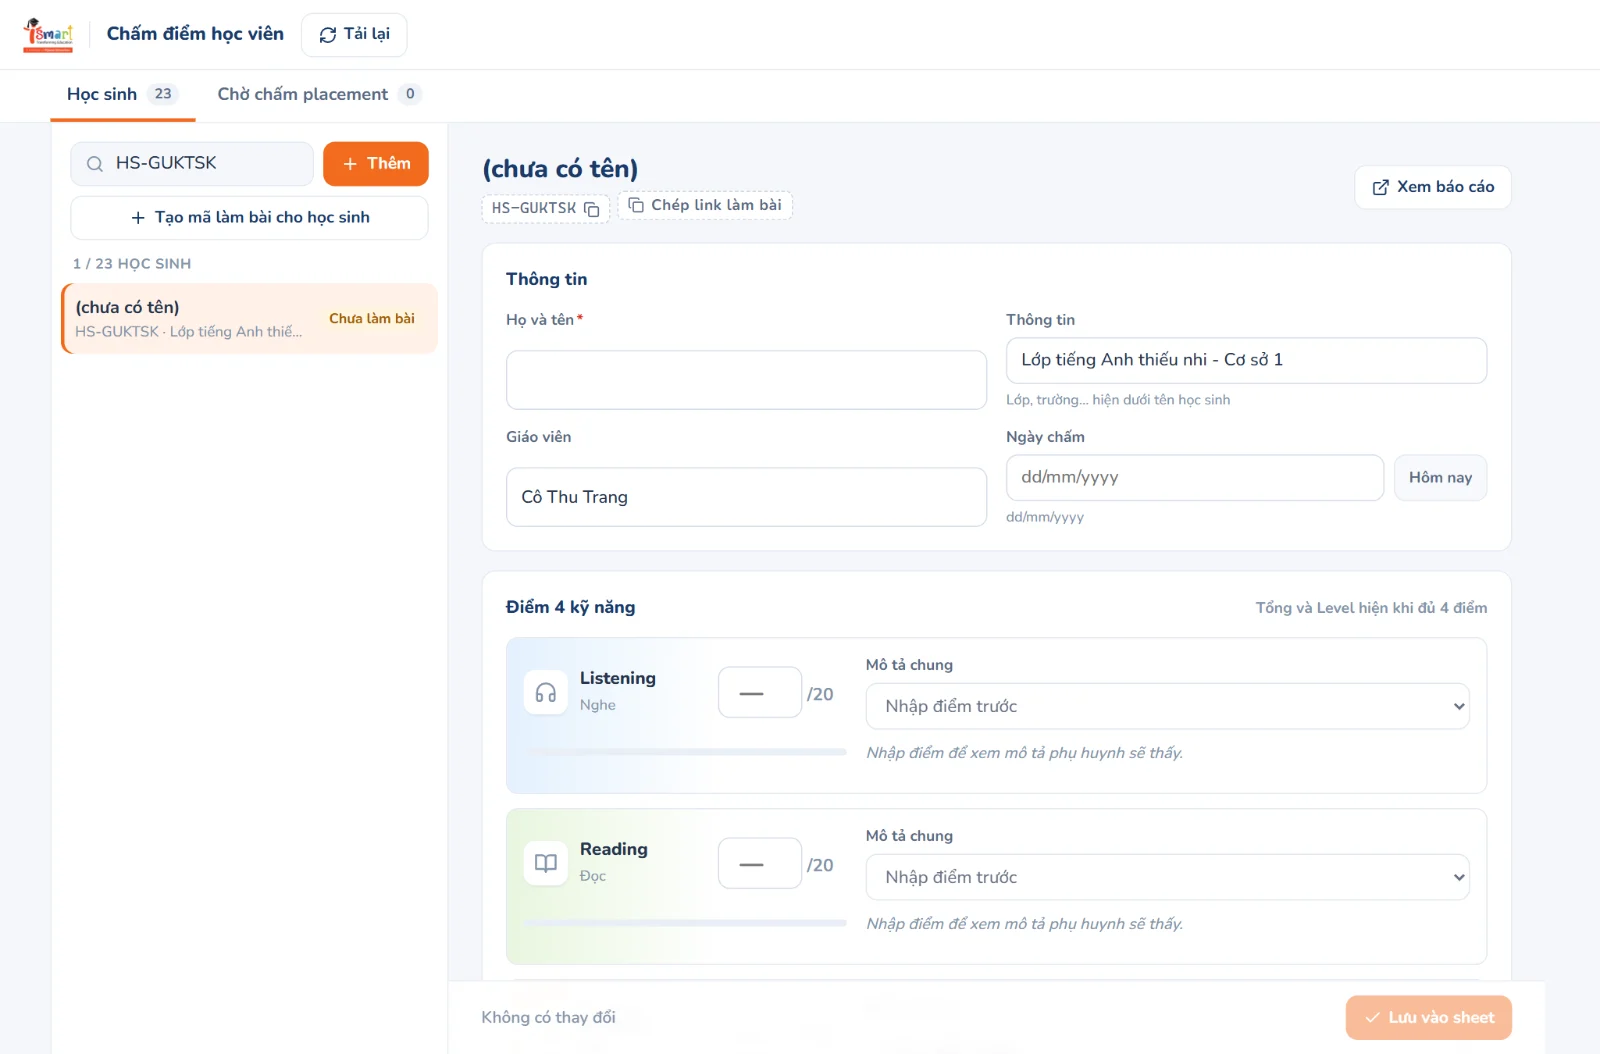
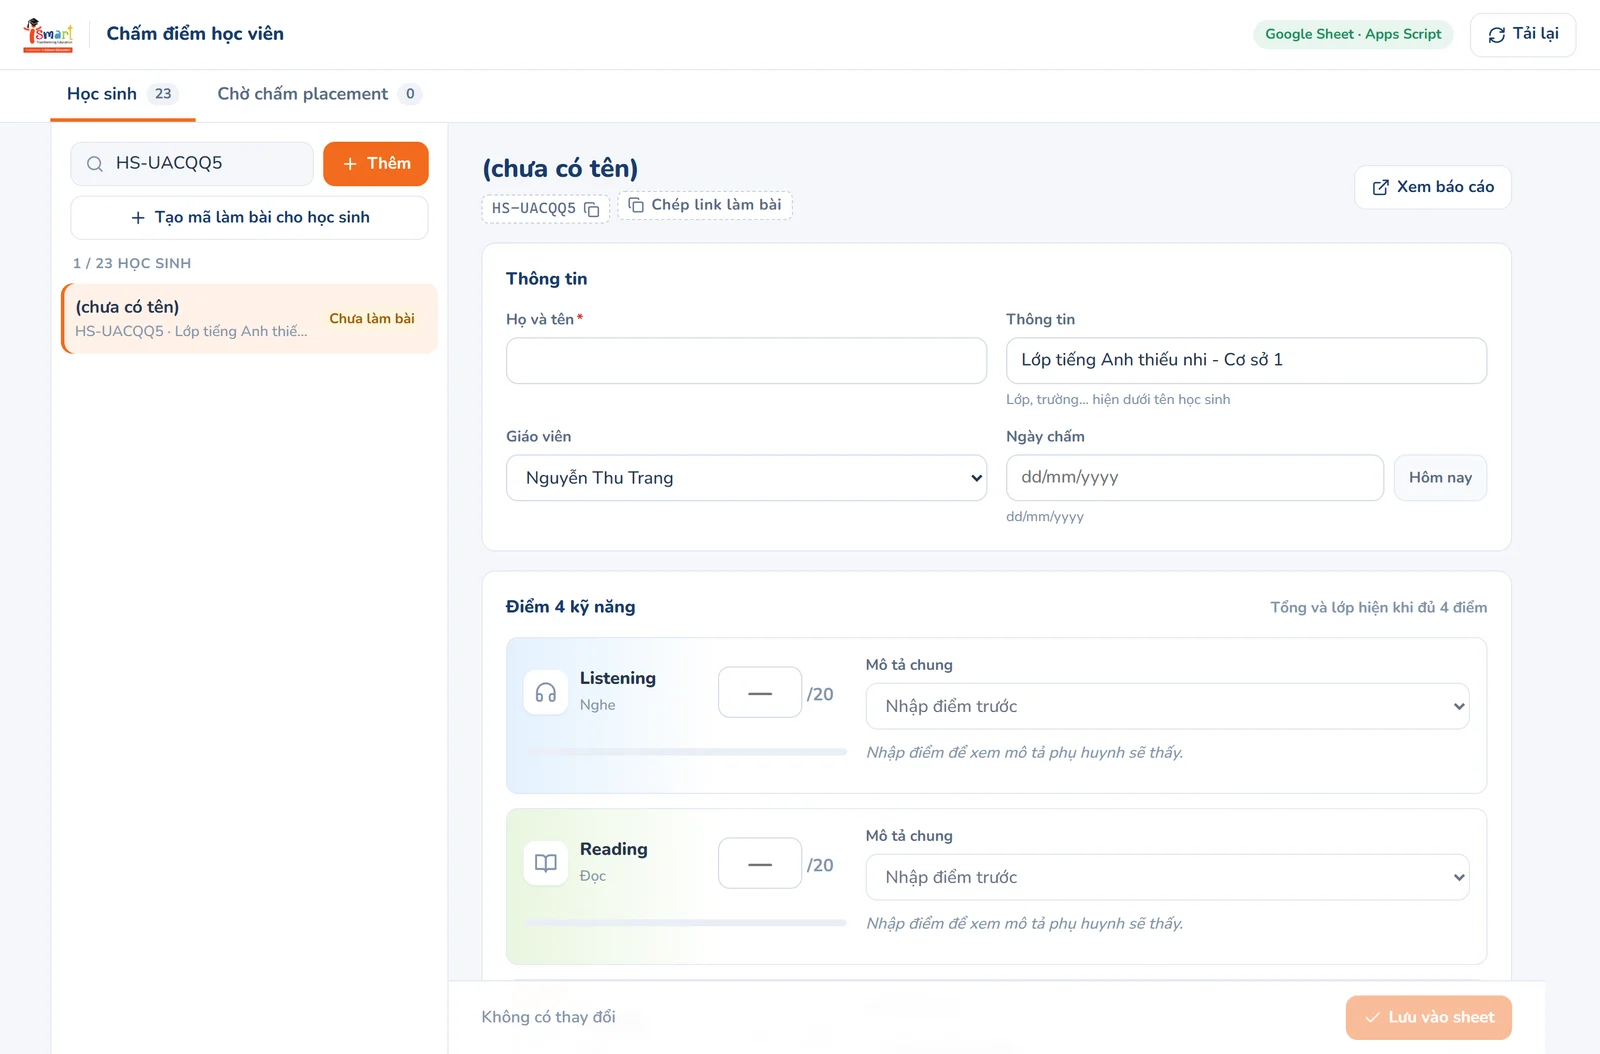
Huong dan giao vien: chup lai anh theo giao dien moi, lam mo ky de thi
- Chup lai 13 anh, them anh doi lop va anh bao cao moi
- Them scripts/chup-huong-dan.mjs de chup anh va xuat PDF
- Sua bang nhan, them vi du tab GiaoVien
- Trang quan tri: nut Tao ma khong bi bop det, o nhap deu nhau, diem le khong bi cat

diff --git a/public/huong-dan/giao-vien.html b/public/huong-dan/giao-vien.html
@@ -159,7 +159,7 @@ details p{margin-top:8px;max-width:68ch}
         <li>Điền <b>Thông tin</b> (lớp, trường, cơ sở…) và chọn <b>Giáo viên</b> trong danh sách nếu muốn. Hai ô này không bắt buộc, sẽ hiện trên báo cáo.</li>
         <li>Bấm <span class="kbd">Tạo mã</span>.</li>
       </ol>
-      <figure><img src="/huong-dan/hinh/gv-02-hop-tao-ma.webp" alt="Hộp Tạo mã làm bài" loading="lazy"><figcaption>Hộp Tạo mã làm bài.</figcaption></figure>
+      <figure><img src="/huong-dan/hinh/gv-02-hop-tao-ma.webp" alt="Hộp Tạo mã làm bài" loading="lazy"><figcaption>Hộp Tạo mã làm bài. Giáo viên chọn trong danh sách.</figcaption></figure>
     </div>
     <div class="buoc">
       <h3>Lấy mã để gửi</h3>
@@ -190,7 +190,7 @@ details p{margin-top:8px;max-width:68ch}
             <tr><td><span class="chip">Chờ Writing + Speaking</span></td><td>Đã nộp bài, chưa chấm gì.</td><td>Chấm ở tab Chờ chấm.</td></tr>
             <tr><td><span class="chip">Chờ Speaking</span></td><td>Đã chấm Writing Part 2, còn thiếu Speaking.</td><td>Chấm Speaking sau khi thi nói.</td></tr>
             <tr><td><span class="chip">Thiếu 2 điểm</span></td><td>Học sinh nhập tay còn thiếu điểm kỹ năng.</td><td>Mở học sinh, nhập nốt điểm.</td></tr>
-            <tr><td><span class="chip xong">60.5 · Pre-B1</span></td><td>Đã đủ điểm: tổng điểm và trình độ.</td><td>Phụ huynh xem được báo cáo.</td></tr>
+            <tr><td><span class="chip xong">49.5 · iLEAD 2</span></td><td>Đã đủ điểm: tổng điểm và lớp xếp.</td><td>Phụ huynh xem được báo cáo.</td></tr>
           </tbody>
         </table>
       </div>
@@ -243,7 +243,7 @@ details p{margin-top:8px;max-width:68ch}
         <li>Kiểm tra lại <b>Họ và tên</b>, <b>Thông tin</b>, <b>Giáo viên chấm</b>. Sửa nếu học sinh gõ sai.</li>
         <li>Viết <b>Nhận xét riêng Speaking</b>: phát âm, phản xạ, sự tự tin. Đoạn này hiện nguyên văn trên báo cáo cho phụ huynh.</li>
       </ol>
-      <figure><img src="/huong-dan/hinh/gv-13-cham-speaking.webp" alt="Khung chấm Speaking và thông tin học sinh" loading="lazy"><figcaption>Khung Speaking &amp; thông tin học sinh.</figcaption></figure>
+      <figure><img src="/huong-dan/hinh/gv-13-cham-speaking.webp" alt="Khung chấm Speaking và thông tin học sinh" loading="lazy"><figcaption>Khung Speaking &amp; thông tin học sinh. Chọn tên mình ở ô Giáo viên chấm.</figcaption></figure>
     </div>
     <div class="buoc">
       <h3>Xếp lớp</h3>
@@ -253,7 +253,8 @@ details p{margin-top:8px;max-width:68ch}
         <li>Thấy lớp khác phù hợp hơn (ví dụ tổng điểm đạt iLEAD 3 nhưng Speaking còn yếu): bấm vào lớp đó, ví dụ iLEAD 2. Muốn quay lại thì bấm <b>Dùng lớp gợi ý</b>.</li>
         <li>Bấm <span class="kbd">Xác nhận kết quả</span>, kiểm tra tổng điểm và lớp ở hộp hỏi lại, rồi bấm <b>OK</b>.</li>
       </ol>
-      <figure><img src="/huong-dan/hinh/gv-14-xac-nhan-ket-qua.webp" alt="Tổng điểm và nút Xác nhận kết quả" loading="lazy"><figcaption>Kiểm tra tổng điểm và lớp trước khi bấm Xác nhận kết quả.</figcaption></figure>
+      <figure><img src="/huong-dan/hinh/gv-14-xac-nhan-ket-qua.webp" alt="Khung Xếp lớp với lớp hệ thống gợi ý và nút Xác nhận kết quả" loading="lazy"><figcaption>Đủ điểm thì khung Xếp lớp hiện gợi ý. Ở đây tổng 49,5 điểm, hệ thống gợi ý iLEAD 3.</figcaption></figure>
+      <figure><img src="/huong-dan/hinh/gv-17-doi-lop.webp" alt="Giáo viên đổi sang iLEAD 2, khác lớp hệ thống gợi ý" loading="lazy"><figcaption>Speaking chỉ 11 điểm nên giáo viên đổi sang iLEAD 2. Khung màu cam nhạt nhắc lớp đã khác gợi ý.</figcaption></figure>
       <div class="ghi-chu chu-y"><b>Sau khi xác nhận, phụ huynh xem được báo cáo ngay.</b>Phần đã chấm sẽ khoá ở tab Chờ chấm. Muốn sửa thì làm ở tab Học sinh (mục 7).</div>
     </div>
   </section>
@@ -296,7 +297,7 @@ details p{margin-top:8px;max-width:68ch}
   <section class="phan" id="phu-huynh">
     <h2><span class="so">8</span>Phụ huynh xem kết quả</h2>
     <p>Gửi phụ huynh <b>mã học sinh</b> và link trang <b>Tra cứu Kết quả học tập</b>. Phụ huynh nhập mã, bấm Xem Báo Cáo Kết Quả là thấy báo cáo, có thể in hoặc lưu PDF.</p>
-    <figure><img src="/huong-dan/hinh/ph-03-bao-cao.webp" alt="Báo cáo phụ huynh nhìn thấy" loading="lazy"><figcaption>Báo cáo phụ huynh nhìn thấy sau khi giáo viên xác nhận kết quả.</figcaption></figure>
+    <figure><img src="/huong-dan/hinh/gv-18-bao-cao.webp" alt="Báo cáo phụ huynh nhìn thấy" loading="lazy"><figcaption>Báo cáo phụ huynh nhìn thấy sau khi giáo viên xác nhận kết quả. Lớp hiện trên báo cáo là lớp giáo viên đã chốt (iLEAD 2).</figcaption></figure>
     <div class="ghi-chu"><b>Chưa chấm xong thì phụ huynh thấy gì?</b>Trang báo học sinh chưa làm bài, hoặc chưa làm xong bài Speaking. Không có báo cáo dở dang nào lộ ra cho phụ huynh.</div>
   </section>
 
@@ -310,6 +311,15 @@ details p{margin-top:8px;max-width:68ch}
         <li>Mỗi giáo viên một dòng: cột <b>ho_ten</b> ghi họ tên (tên này hiện trên báo cáo phụ huynh), cột <b>co_so</b> ghi cơ sở (không bắt buộc, dùng để nhóm tên cho dễ tìm), cột <b>trang_thai</b> để trống hoặc chọn <b>Đang dạy</b>. Có thể dán cả danh sách từ Excel.</li>
         <li>Trên trang chấm điểm, bấm <span class="kbd">Tải lại</span>. Tên mới có ngay trong ô chọn.</li>
       </ol>
+      <p>Ví dụ tab GiaoVien:</p>
+      <div class="bang"><table>
+        <thead><tr><th style="text-transform:none">ho_ten</th><th style="text-transform:none">co_so</th><th style="text-transform:none">trang_thai</th></tr></thead>
+        <tbody>
+          <tr><td>Nguyễn Thu Trang</td><td>Cơ sở 1</td><td>Đang dạy</td></tr>
+          <tr><td>Trần Hoàng Mai</td><td>Cơ sở 2</td><td>(để trống, vẫn hiện trong ô chọn)</td></tr>
+          <tr><td>Hoàng Minh Châu</td><td>Cơ sở 2</td><td>Nghỉ (không còn trong ô chọn)</td></tr>
+        </tbody>
+      </table></div>
     </div>
     <div class="buoc">
       <h3>Bớt giáo viên</h3>

diff --git a/huong-dan/giao-vien.html b/huong-dan/giao-vien.html
@@ -151,7 +151,7 @@ details p{margin-top:8px;max-width:68ch}
         <li>Điền <b>Thông tin</b> (lớp, trường, cơ sở…) và chọn <b>Giáo viên</b> trong danh sách nếu muốn. Hai ô này không bắt buộc, sẽ hiện trên báo cáo.</li>
         <li>Bấm <span class="kbd">Tạo mã</span>.</li>
       </ol>
-      <figure><img src="hinh/gv-02-hop-tao-ma.webp" alt="Hộp Tạo mã làm bài" loading="lazy"><figcaption>Hộp Tạo mã làm bài.</figcaption></figure>
+      <figure><img src="hinh/gv-02-hop-tao-ma.webp" alt="Hộp Tạo mã làm bài" loading="lazy"><figcaption>Hộp Tạo mã làm bài. Giáo viên chọn trong danh sách.</figcaption></figure>
     </div>
     <div class="buoc">
       <h3>Lấy mã để gửi</h3>
@@ -182,7 +182,7 @@ details p{margin-top:8px;max-width:68ch}
             <tr><td><span class="chip">Chờ Writing + Speaking</span></td><td>Đã nộp bài, chưa chấm gì.</td><td>Chấm ở tab Chờ chấm.</td></tr>
             <tr><td><span class="chip">Chờ Speaking</span></td><td>Đã chấm Writing Part 2, còn thiếu Speaking.</td><td>Chấm Speaking sau khi thi nói.</td></tr>
             <tr><td><span class="chip">Thiếu 2 điểm</span></td><td>Học sinh nhập tay còn thiếu điểm kỹ năng.</td><td>Mở học sinh, nhập nốt điểm.</td></tr>
-            <tr><td><span class="chip xong">60.5 · Pre-B1</span></td><td>Đã đủ điểm: tổng điểm và trình độ.</td><td>Phụ huynh xem được báo cáo.</td></tr>
+            <tr><td><span class="chip xong">49.5 · iLEAD 2</span></td><td>Đã đủ điểm: tổng điểm và lớp xếp.</td><td>Phụ huynh xem được báo cáo.</td></tr>
           </tbody>
         </table>
       </div>
@@ -235,7 +235,7 @@ details p{margin-top:8px;max-width:68ch}
         <li>Kiểm tra lại <b>Họ và tên</b>, <b>Thông tin</b>, <b>Giáo viên chấm</b>. Sửa nếu học sinh gõ sai.</li>
         <li>Viết <b>Nhận xét riêng Speaking</b>: phát âm, phản xạ, sự tự tin. Đoạn này hiện nguyên văn trên báo cáo cho phụ huynh.</li>
       </ol>
-      <figure><img src="hinh/gv-13-cham-speaking.webp" alt="Khung chấm Speaking và thông tin học sinh" loading="lazy"><figcaption>Khung Speaking &amp; thông tin học sinh.</figcaption></figure>
+      <figure><img src="hinh/gv-13-cham-speaking.webp" alt="Khung chấm Speaking và thông tin học sinh" loading="lazy"><figcaption>Khung Speaking &amp; thông tin học sinh. Chọn tên mình ở ô Giáo viên chấm.</figcaption></figure>
     </div>
     <div class="buoc">
       <h3>Xếp lớp</h3>
@@ -245,7 +245,8 @@ details p{margin-top:8px;max-width:68ch}
         <li>Thấy lớp khác phù hợp hơn (ví dụ tổng điểm đạt iLEAD 3 nhưng Speaking còn yếu): bấm vào lớp đó, ví dụ iLEAD 2. Muốn quay lại thì bấm <b>Dùng lớp gợi ý</b>.</li>
         <li>Bấm <span class="kbd">Xác nhận kết quả</span>, kiểm tra tổng điểm và lớp ở hộp hỏi lại, rồi bấm <b>OK</b>.</li>
       </ol>
-      <figure><img src="hinh/gv-14-xac-nhan-ket-qua.webp" alt="Tổng điểm và nút Xác nhận kết quả" loading="lazy"><figcaption>Kiểm tra tổng điểm và lớp trước khi bấm Xác nhận kết quả.</figcaption></figure>
+      <figure><img src="hinh/gv-14-xac-nhan-ket-qua.webp" alt="Khung Xếp lớp với lớp hệ thống gợi ý và nút Xác nhận kết quả" loading="lazy"><figcaption>Đủ điểm thì khung Xếp lớp hiện gợi ý. Ở đây tổng 49,5 điểm, hệ thống gợi ý iLEAD 3.</figcaption></figure>
+      <figure><img src="hinh/gv-17-doi-lop.webp" alt="Giáo viên đổi sang iLEAD 2, khác lớp hệ thống gợi ý" loading="lazy"><figcaption>Speaking chỉ 11 điểm nên giáo viên đổi sang iLEAD 2. Khung màu cam nhạt nhắc lớp đã khác gợi ý.</figcaption></figure>
       <div class="ghi-chu chu-y"><b>Sau khi xác nhận, phụ huynh xem được báo cáo ngay.</b>Phần đã chấm sẽ khoá ở tab Chờ chấm. Muốn sửa thì làm ở tab Học sinh (mục 7).</div>
     </div>
   </section>
@@ -288,7 +289,7 @@ details p{margin-top:8px;max-width:68ch}
   <section class="phan" id="phu-huynh">
     <h2><span class="so">8</span>Phụ huynh xem kết quả</h2>
     <p>Gửi phụ huynh <b>mã học sinh</b> và link trang <b>Tra cứu Kết quả học tập</b>. Phụ huynh nhập mã, bấm Xem Báo Cáo Kết Quả là thấy báo cáo, có thể in hoặc lưu PDF.</p>
-    <figure><img src="hinh/ph-03-bao-cao.webp" alt="Báo cáo phụ huynh nhìn thấy" loading="lazy"><figcaption>Báo cáo phụ huynh nhìn thấy sau khi giáo viên xác nhận kết quả.</figcaption></figure>
+    <figure><img src="hinh/gv-18-bao-cao.webp" alt="Báo cáo phụ huynh nhìn thấy" loading="lazy"><figcaption>Báo cáo phụ huynh nhìn thấy sau khi giáo viên xác nhận kết quả. Lớp hiện trên báo cáo là lớp giáo viên đã chốt (iLEAD 2).</figcaption></figure>
     <div class="ghi-chu"><b>Chưa chấm xong thì phụ huynh thấy gì?</b>Trang báo học sinh chưa làm bài, hoặc chưa làm xong bài Speaking. Không có báo cáo dở dang nào lộ ra cho phụ huynh.</div>
   </section>
 
@@ -302,6 +303,15 @@ details p{margin-top:8px;max-width:68ch}
         <li>Mỗi giáo viên một dòng: cột <b>ho_ten</b> ghi họ tên (tên này hiện trên báo cáo phụ huynh), cột <b>co_so</b> ghi cơ sở (không bắt buộc, dùng để nhóm tên cho dễ tìm), cột <b>trang_thai</b> để trống hoặc chọn <b>Đang dạy</b>. Có thể dán cả danh sách từ Excel.</li>
         <li>Trên trang chấm điểm, bấm <span class="kbd">Tải lại</span>. Tên mới có ngay trong ô chọn.</li>
       </ol>
+      <p>Ví dụ tab GiaoVien:</p>
+      <div class="bang"><table>
+        <thead><tr><th style="text-transform:none">ho_ten</th><th style="text-transform:none">co_so</th><th style="text-transform:none">trang_thai</th></tr></thead>
+        <tbody>
+          <tr><td>Nguyễn Thu Trang</td><td>Cơ sở 1</td><td>Đang dạy</td></tr>
+          <tr><td>Trần Hoàng Mai</td><td>Cơ sở 2</td><td>(để trống, vẫn hiện trong ô chọn)</td></tr>
+          <tr><td>Hoàng Minh Châu</td><td>Cơ sở 2</td><td>Nghỉ (không còn trong ô chọn)</td></tr>
+        </tbody>
+      </table></div>
     </div>
     <div class="buoc">
       <h3>Bớt giáo viên</h3>

diff --git a/src/quan-tri.css b/src/quan-tri.css
@@ -172,7 +172,7 @@
 .qt-luoi-2 { display: grid; grid-template-columns: repeat(2, minmax(0, 1fr)); gap: 14px 16px; }
 
 /* Ô nhập */
-.qt-o { display: grid; gap: 5px; min-width: 0; }
+.qt-o { display: grid; align-content: start; gap: 5px; min-width: 0; }
 .qt-o-nhan { font-size: 13px; font-weight: 700; color: var(--ink-2); }
 .qt-o-nhan i { color: var(--err); font-style: normal; margin-left: 2px; }
 .qt-o-goi-y { font-size: 12px; color: var(--muted); }
@@ -252,6 +252,9 @@
 .qt-diem input:focus { outline: 0; border-color: var(--mau); box-shadow: 0 0 0 3px color-mix(in srgb, var(--mau) 20%, transparent); }
 .qt-diem.co-loi input { border-color: var(--err); }
 
+/* Bỏ nút tăng giảm: nó chiếm chỗ làm điểm lẻ như 12,5 bị cắt chữ số cuối. */
+.qt-diem input { appearance: textfield; -moz-appearance: textfield; }
+.qt-diem input::-webkit-inner-spin-button { display: none; }
 .qt-kn-thanh { grid-area: thanh; height: 6px; border-radius: 99px; background: #e9eef5; overflow: hidden; align-self: start; margin-top: 6px; }
 .qt-kn-thanh span { display: block; height: 100%; border-radius: inherit; background: var(--mau); transition: width .3s cubic-bezier(.2, 0, 0, 1); }
 
@@ -402,7 +405,7 @@
 /* --------------------------- Tạo mã làm bài --------------------------- */
 
 .qt-cc-chon[hidden] { display: none; }
-.qt-tao-ma { margin: 0 16px 8px; }
+.qt-tao-ma { flex: none; margin: 0 16px 8px; } /* flex: none — danh sách dài không được bóp dẹt nút */
 .qt-ma-link { margin-left: 6px; font-family: inherit; font-weight: 700; }
 
 .qt-hop-nen {
